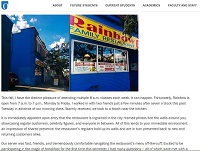
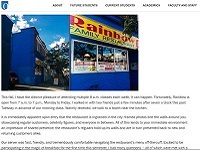
Better look for articles section

diff --git a/Views/About/About.html b/Views/About/About.html
@@ -77,29 +77,31 @@
             </p>
         </div>
 
-        <div id="article-holder">
-            <h2>Articles about the Rainbow</h2>
-            <a href="Article1.pdf" target="_blank"
+        <h2>Articles about the Rainbow</h2>
+        <div id="articles">
+            <a class="article-container article1" href="Article1.pdf" target="_blank"
                 ><img class="article framed" src="Article1Pic.jpg"
             /></a>
-            <a href="Article3.pdf" target="_blank"
+            <a class="article-container article2" href="Article2.pdf" target="_blank"
+                ><img class="article framed" src="Article2Pic.jpg"
+            /></a>
+            <a class="article-container article3" href="Article3.pdf" target="_blank"
                 ><img class="article framed" src="Article3Pic.jpg"
             /></a>
             <a
+                class="article-container article4"
                 href="http://blog.uoit.ca/local-cuisine-spotlight-rainbow-family-restaurant?utm_source=Social&utm_medium=Web&utm_campaign=blog"
                 target="_black"
                 ><img class="article framed" src="Article4Pic.jpg"
             /></a>
             <a
+                class="article-container article5"
                 href="http://www.durhamregion.com/news-story/4734781-durham-dish-this-club-sandwich-from-rainbow-family-restaurant-in-oshawa-can-feed-a-crowd/"
                 target="_black"
                 ><img class="article framed" src="Article5Pic.jpg"
             /></a>
-            <a href="Article6.pdf" target="blank"
+            <a class="article-container article6" href="Article6.pdf" target="blank"
                 ><img class="article framed" src="Article6Pic.jpg"
-            /></a>
-            <a href="Article2.pdf" target="_blank"
-                ><img class="article framed" src="Article2Pic.jpg"
             /></a>
         </div>
 

diff --git a/Views/About/About.css b/Views/About/About.css
@@ -45,16 +45,46 @@
     margin-bottom: 0px;
 }
 
-#article-holder {
-    text-align: center;
-    width: 900px;
-    margin: auto;
+.article-container {
+    width: fit-content;
 }
 
-.article {
-    margin: 10px;
+.article1 {
+    grid-area: article1;
+}
+.article2 {
+    margin-top: 20px;
+    grid-area: article2;
+}
+.article3 {
+    grid-area: article3;
+}
+.article4 {
+    margin-top: -20px;
+    grid-area: article4;
+}
+.article5 {
+    grid-area: article5;
+}
+.article6 {
+    grid-area: article6;
+}
+
+#articles {
+    padding-bottom: 30px;
+    display: grid;
+    justify-content: center;
+    column-gap: 20px;
+    row-gap: 20px;
+    grid-template-columns: 240px 240px;
+    grid-template-rows: 170px 170px 170px 170px;
+    grid-template-areas:
+        "article1 article3"
+        "article1 article2"
+        "article4 article2"
+        "article5 article6";
 }
 
 .article:hover {
-    opacity: 0.7;
+    opacity: 0.8;
 }
